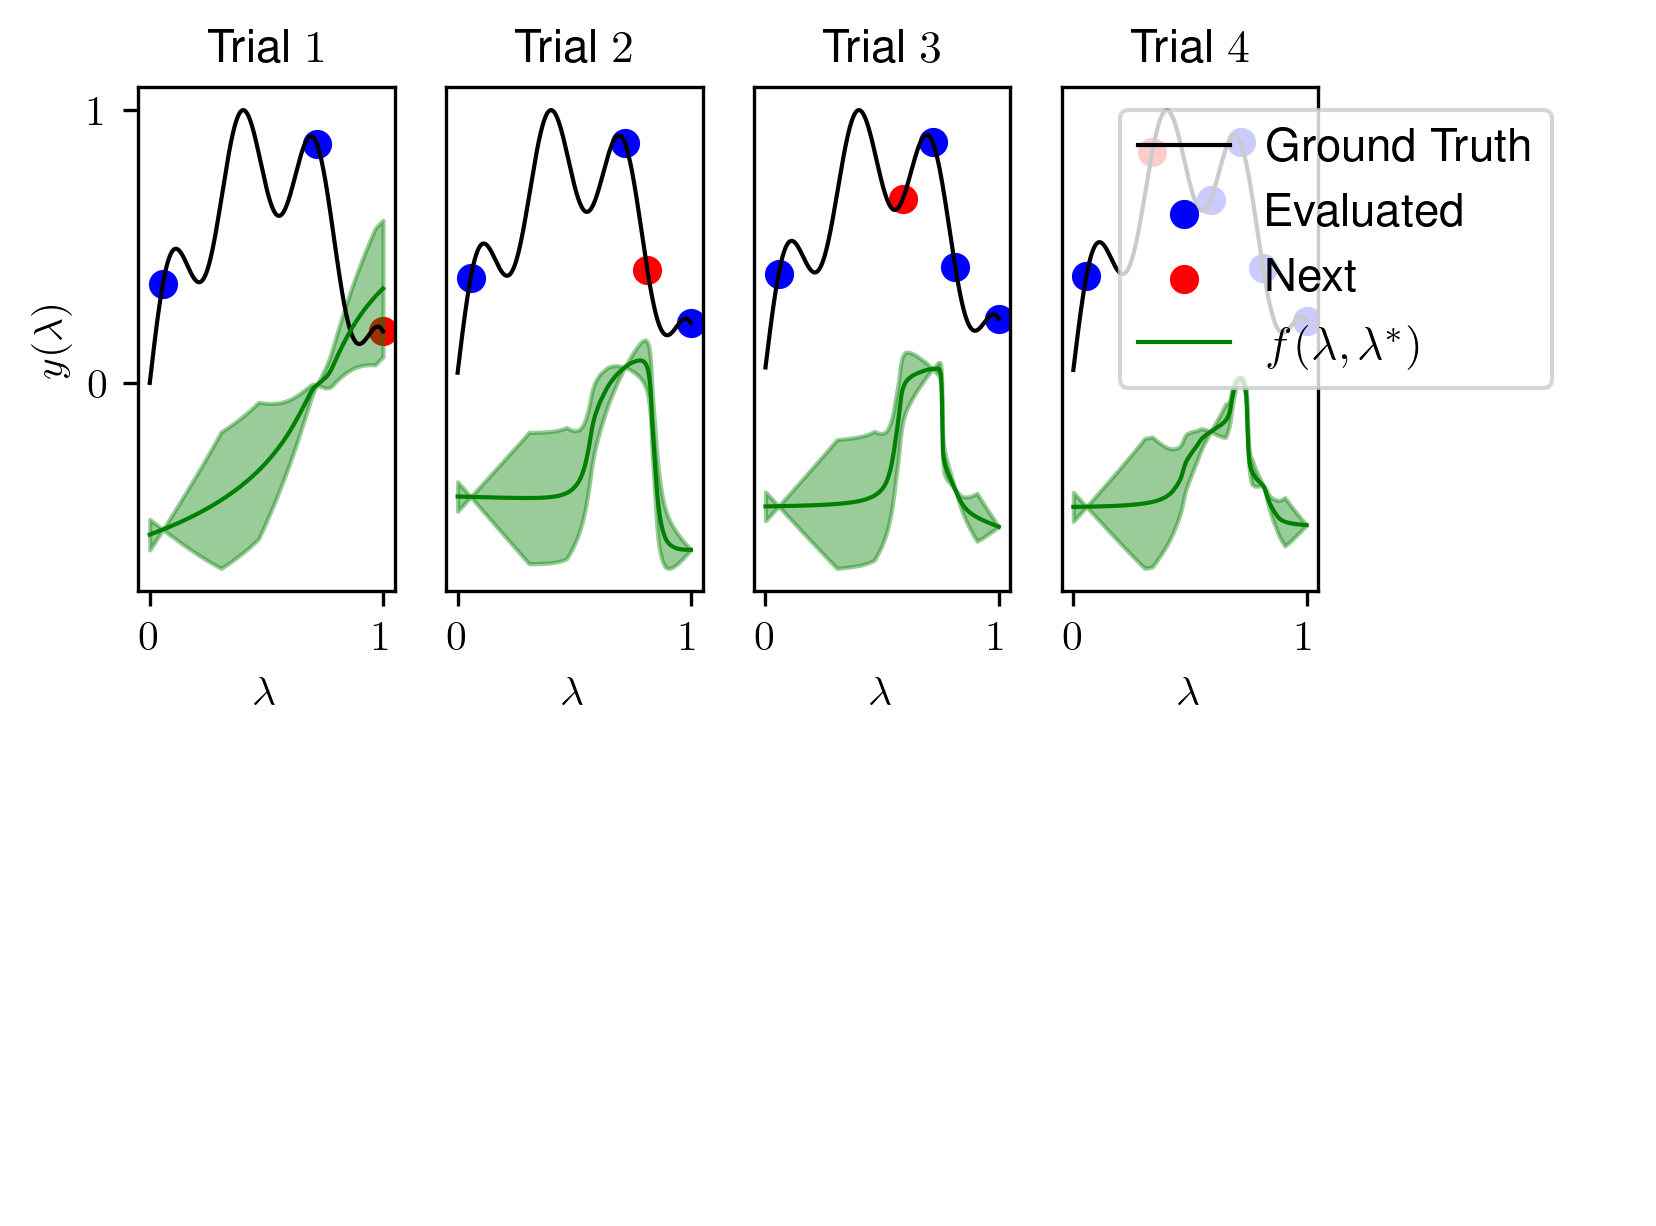
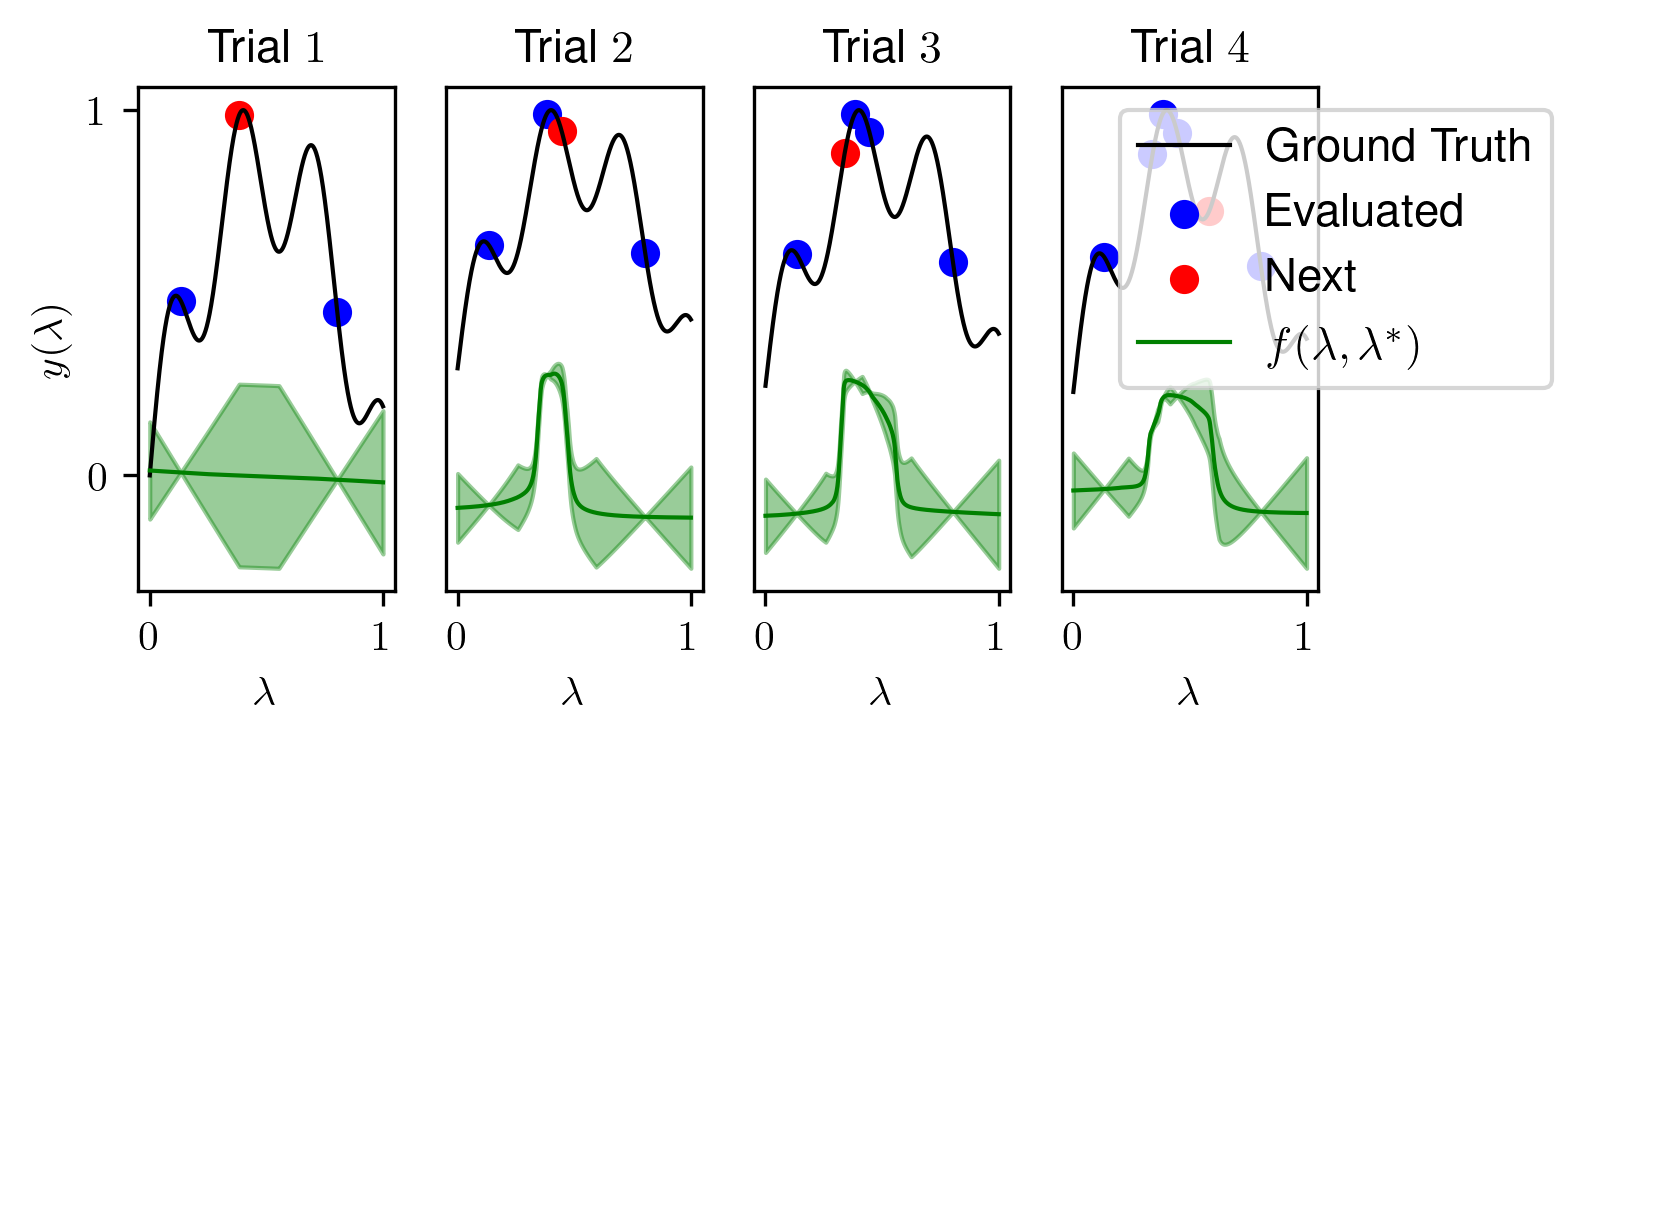
working version

diff --git a/methods/nn_bo_synth.py b/methods/nn_bo_synth.py
@@ -38,7 +38,7 @@ class NeuralNetworkBOSynth():
 
         # the acquisition function
         if self.is_rank_version:
-            self.acq_fun = self.UCB
+            self.acq_fun = self.EI
         else:
             self.acq_fun = self.EI
 
@@ -242,7 +242,10 @@ class NeuralNetworkBOSynth():
             y_hats_std = y_hats_std if isinstance(y_hats_std, list) else [y_hats_std]
             # check if the configuration is the incumbent
             for idx_batch, x in enumerate(x_batch):
-                acquisition_val = self.acq_fun(y_max, y_hats_mean[idx_batch], y_hats_std[idx_batch])
+                if self.is_rank_version:
+                    acquisition_val = self.acq_fun(max_val=0.0, mean=y_hats_mean[idx_batch], std=y_hats_std[idx_batch])
+                else:
+                    acquisition_val = self.acq_fun(max_val=y_max, mean=y_hats_mean[idx_batch], std=y_hats_std[idx_batch])
 
                 if acquisition_val >= incumbent_acquisition_value:
                     incumbent_idx = i
